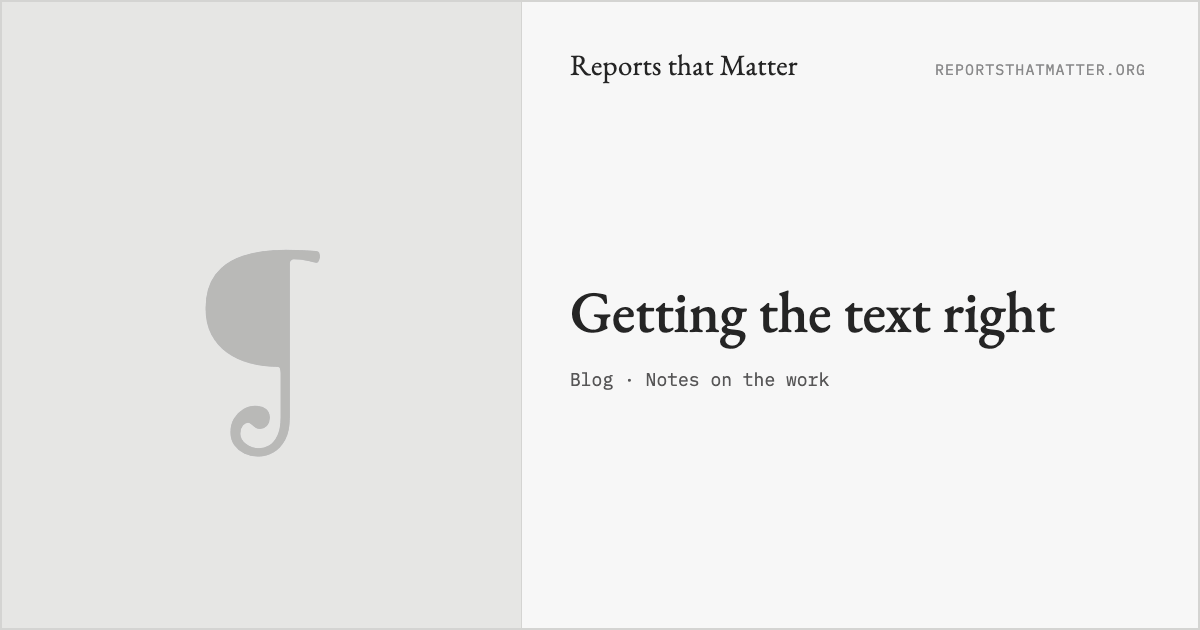
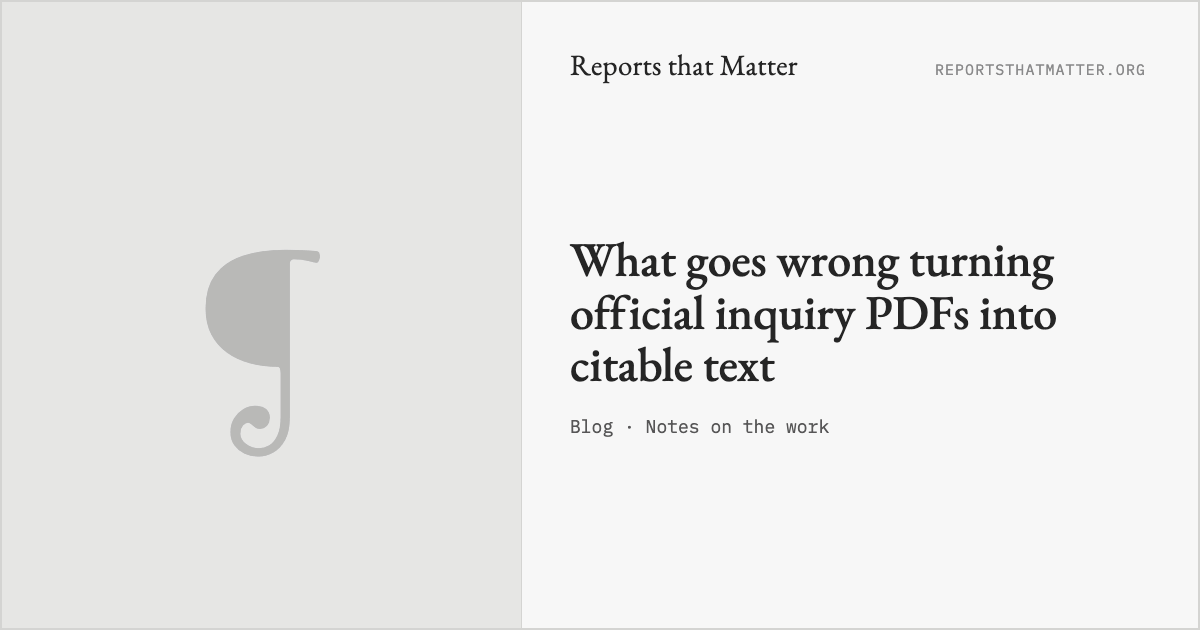
Blog draft: rewrite 'Getting the text right' for 10 Nov with 25 Oct numbers (grades, Mueller, Leveson) (cl2e)
Title under 80 characters for HN, author Rufus, status draft, dated 2026-11-10.
tests/blog.test.ts matched the old draft's review wording; it now checks the DECISION marker.

Claude-Session: https://claude.ai/code/session_016nGqu8qRXepYMzWYpLhjsz

Changed region(s): [[0.4625, 0.3619, 0.8942, 0.6333], [0.4625, 0.6635, 0.7092, 0.6937]]

diff --git a/tests/blog.test.ts b/tests/blog.test.ts
@@ -93,8 +93,9 @@ describe("blog routes with only drafts", () => {
     expect(body).toContain("draft-banner");
     expect(body).toContain('<meta name="robots" content="noindex" />');
     expect(body).toContain("AI coding agents");
-    // The flagged sentence stays in the post and is flagged in the preview's decision list.
-    expect(body).toContain("DECISION: the sentence beginning");
+    // The post's review list (its open decisions) is shown in the preview. Match the marker, not one
+    // decision's wording, so rewriting the draft's review notes does not break the test.
+    expect(body).toContain("DECISION:");
     expect(body).toContain("For the editor to decide");
   });
 

diff --git a/content/posts/getting-the-text-right.md b/content/posts/getting-the-text-right.md
@@ -1,70 +1,79 @@
 ---
-title: "Getting the text right: what goes wrong turning official PDFs into citable web text, and what we are doing about it"
-date: "2026-10-02"
-author: "Reports that Matter"
-summary: "The defects we kept hitting when turning official PDFs into citable web text, why fixing them one at a time stopped working, what we built instead, and what it has achieved so far."
+title: "What goes wrong turning official inquiry PDFs into citable text"
+date: "2026-11-10"
+author: "Rufus Pollock"
+summary: "An official PDF keeps the words and loses the paragraphs, headings and footnotes. How we grade every report on the errors a reader meets, and why ten of the 20 are below our own bar."
 status: draft
 review:
-  - "DECISION: the sentence beginning 'Much of this work was carried out by AI coding agents' (near the end, before the links) says the work was done by AI agents under human direction. The site has not said this anywhere before. Keep, reword or cut before publishing."
-  - "Written before v0.18.0 (page-break joins) was live. Check that the pipeline releases and the numbers under 'What changed for readers' match what is published, and update the date, before publishing."
-  - "Author byline is the project; change to a person if you prefer."
+  - "DECISION: the post publishes the per-report grades (A to D, errors per 10 pages), which decision 0030 keeps in the repo and off the site. Recommendation: publish them here. They are the access argument with numbers, and saying 'half are below our bar' ourselves is the honest version of what an HN commenter would find in reports/grades.md within the hour. If yes, consider a follow-up decision on showing them on each edition page."
+  - "DECISION for HN: this text was drafted by an agent (w7-content, 25 Oct). HN bans generated text in posts and comments, and its readers apply the same standard to linked essays. The launch plan (marketing strategy/2026-10-27-launch-week.md, L1) says you rewrite it yourself before the 10 Nov submission. Recommendation: rewrite it in your own words, using this as the fact sheet; the HN plan is in the marketing repo, drafts/2026-11-10/hn-essay.md."
+  - "Numbers are from 25 October 2026 (ingest v0.31.0, site 305d511b): reports/grades.md, the golden.yaml files in the report repos (128 pages, 41 xfail), site PRs #309 (Leveson) and #389 (Mueller), and factory/reviews/review-mueller-notes-2026-10-25.md. The September and early-October examples are from docs/design/2026-10-02-quality-harness-catalogue.md. Re-run `pnpm grade` and recount the golden pages the day before publishing; any release between now and 10 Nov moves them."
+  - "The AI paragraph is the brand-voice wording (decision 0009) in first person: 'under my direction', 'checked by me'."
+  - "The report count (20) is today's registry. If a report is added before 10 Nov, update it or remove the number (marketing's check-drafts.py --site-docs flags a mismatch)."
 ---
 
-The promise of this site is simple: every paragraph of a public inquiry, readable on the web and citable by its own link. Keeping that promise is mostly unglamorous data wrangling. This is a longer note than usual, about the problems we keep hitting, why fixing them one at a time stopped working, what we built instead, and what it has achieved so far.
+The Leveson Inquiry's report runs to 983,000 words. Its PDF gives the chapter titles as "ChapTer 1" and "parT a", because they are set in small capitals and the PDF records the small capitals as lower-case letters in a smaller font. The first time we converted it, the result had 74 headings. It has 88 now. By the measure I describe below, it is still the worst text on this site.
 
-## The problem: these reports were typeset for paper
+Ten of the 20 reports on this site fail the bar we set for them. This is how we know, and what is still wrong.
 
-Nearly every report here reaches us as an official PDF. A PDF records where each line of text sits on a printed page. It doesn't record which lines form a paragraph, which text is a heading, which number is a footnote marker, or which words are a running title repeated at the top of every page. Our pipeline has to work all of that out again, for documents of up to a million words, and every report was typeset differently.
+## A PDF records words, not paragraphs
 
-The mistakes are easy to make and hard to see. Some real examples from the archive:
+All 20 reports here were published as PDFs. For a born-digital PDF the words are usually fine. What a PDF does not record is which lines make a paragraph, which text is a heading, which small number is a footnote marker, and which words are a running head printed at the top of every page. All of that has to be worked out again, for each report, and every report was typeset differently.
 
-- **Sentences cut in half.** In the Litvinenko Inquiry, paragraph 3.120 described Mr Litvinenko "suffering from abdominal pain, profuse diarrhoea and" — and then the rest of the sentence, "vomiting for two days when he was taken to hospital", arrived as a separate indented quotation. That one report had 244 such breaks, about one prose block in nine.
-- **Page furniture inside sentences.** The same report's running heads ("The Litvinenko Inquiry", "Part 3 | Chapters 1 to 5") were read as text: 132 times as paragraphs of their own, and sometimes spliced into the middle of a sentence where a page break fell.
-- **One stray mark, 148 wrong notes.** The 9/11 Commission Report's first chapter opens with a decorative date that the PDF spells "Tue sday, Se ptembe r 11, 20 01". A fragment of it was read as footnote 20. Because notes restart in every chapter, every later "20" in the book then opened the previous chapter's note 20: 148 footnote markers showed the wrong note. "Haznawi in 6B." pointed to a note about a terrorism scholar instead of the airline record.
-- **Paragraphs you couldn't cite.** The Iraq Inquiry's Executive Summary numbers its paragraphs "13.", "20." at the margin. Our formatter read each one as a numbered list item, and list items had no paragraph link, so only 64 of its 956 citable units could actually be cited, including none of its conclusions. The Lehman examiner's report still has the same problem in places: the sentence giving Lehman's reported leverage figures breaks across a page and its second half becomes an unlinked list item.
-- **A million words with almost no structure.** The Leveson Inquiry is 983,000 words. It had 74 headings, because its Part and Chapter titles are set in small capitals that the PDF reports as "parT a" and "ChapTer 1". It now has 87; recovering the rest needs a piece of work of its own.
-- **Footnotes that never became footnotes.** When we first counted, more than 9,000 footnote markers across the archive had never been linked to their notes, 6,394 of them in Leveson.
+Some of what went wrong, from September and early October:
 
-## Why fixing them one by one wasn't working
+- **Sentences cut in half.** The Litvinenko Inquiry, paragraph 3.120, described Mr Litvinenko "suffering from abdominal pain, profuse diarrhoea and", and the rest of the sentence arrived as a separate quotation. That report had 244 sentences broken this way.
+- **One stray mark, 148 wrong notes.** The 9/11 Commission Report's first chapter opens with a decorative date that the PDF spells "Tue sday, Se ptembe r 11, 20 01". A fragment of it was read as footnote 20. Notes restart in every chapter, so every later "20" in the book opened the wrong note: 148 markers in all.
+- **Paragraphs you couldn't cite.** The Iraq Inquiry's executive summary numbers its paragraphs in the margin. We read each number as a list item, and list items had no link, so 64 of its 956 citable units could be cited, and none of its conclusions.
+- **Notes that never became notes.** When we first counted, 9,032 footnote markers across the archive were not linked to their notes. 6,394 of them were in Leveson.
 
-For months each defect became its own bug, found when someone happened to read the page, then fixed, then closed. When we catalogued about fifty of them, not one had been caught by an automated check. Readers had found six. The rest were found by someone reading pages closely. Our checks were measuring the wrong things: they confirmed that the words had arrived, not that they were in the right place, and their baselines simply recorded whatever had last been published, mistakes included.
+## Why fixing them one at a time stopped working
 
-So we changed the approach: measure the whole archive on every change, and find ground truth to measure against.
+Each of these was a bug, fixed and closed. When we listed about fifty of them in early October, none had been caught by an automated check. Six had been found by readers, or by me, on the live site; the rest by agents reading pages closely while doing something else.
 
-## What we built
+The checks we had were measuring the wrong thing. They confirmed that the words had arrived, not that they were in the right order or the right place. A paragraph cut in half, with its second half relabelled as a quotation, scored exactly the same as a correct one. That is how 865 of Litvinenko's 1,089 paragraphs went out severed until 1 September and passed every gate.
 
-**A catalogue of defects, with counts.** We wrote down every class of mistake we had seen, with examples and a way to detect each one automatically, and counted them across all thirteen reports.
+## What we measure now
 
-**Quality checks with budgets that only go down.** Every report now has a count for each defect class — sentences cut off into quotations, page furniture left as paragraphs, unlinked markers, contents entries with no matching heading, and so on — and a budget. A change that makes any count worse fails before it reaches the site. When a fix lowers a count, the budget is lowered with it, so the gains can't quietly slip back.
+- **Counts with budgets that only go down.** Each report has a count for each kind of defect we know how to detect: sentences cut into quotations, running heads left in the body, unlinked markers, contents entries with no matching heading. A change that raises any count fails before it reaches the site. A fix that lowers one lowers the budget with it.
+- **Independent editions to score against.** Some reports exist in a second, cleaner form: the 9/11 Commission's HTML edition, the Saville Inquiry's website, the court's text of the Philip Morris judgment. We align our text with those and score paragraph breaks, headings and note links. The scorer's first run on 9/11 found 195 paragraphs that started in the wrong place. Our checks had found 4.
+- **Checking the references.** The clean editions have mistakes too. On 185 page breaks checked against the PDF, the reference was wrong in 19, about one in ten. So each reference now gets a sample checked by hand before we trust it.
+- **Golden pages.** 128 pages across the 20 reports have been read off the page image and written down as the right answer for the paragraphs, headings and notes they were chosen to test. A change that breaks one fails the build. They were chosen because they are hard, and on 41 we still get something wrong. Those are recorded as known failures, each tied to an open bug, so they stay visible.
 
-**Clean reference texts to score against.** The checks can only look for shapes we already know. To find the rest, we went looking for independent clean editions of the same reports. Some exist: the 9/11 Commission's own HTML edition, the Saville Inquiry's website, the court reporter's text of the Philip Morris judgment, and the structure tags inside some publishers' PDFs (Hillsborough's match our text 97%). We built a scorer that aligns our text with the reference and measures where paragraphs begin and end, which text is a heading, and whether each footnote marker opens the right note. Its first run on 9/11 found 195 wrong paragraph breaks; our existing checks had found 4. It also showed that our checks caught only about half of the wrongly split paragraphs.
+## One grade per report
 
-**Checking the checkers.** Reference texts have mistakes too. On a sample of page breaks, about one label in ten turned out to be wrong, mostly where a publisher's PDF tags were sloppy. So for each reference we now check 30 page breaks by hand against the printed page and record the result. After cleaning up the references, Hillsborough's error rate on those breaks went from 7% to zero and Chilcot's from 18% to 4.5%.
+Counts are hard to compare between a 145-page executive summary and a 1,952-page inquiry, so since 16 October each report has one number: the errors a reader meets per 10 pages, over six things a reader relies on. Paragraphs that start and end in the right place. Headings. Footnote markers that open the right note. Page numbers that land on the right page. Links that still find their paragraph. And the words themselves, which we can only measure where a clean edition exists.
 
-**Learning from the cases we get wrong.** Aligning our text with the clean editions gave us tens of thousands of labelled decisions, every point where the pipeline chose whether to start a new paragraph. The weakest decision by far was the page break: does the paragraph at the foot of a page continue on the next one? Within a page we were right 97–99.6% of the time; across a page break, as little as 74%. We tried a trained model, but it mostly rediscovered rules a person could write down, and did slightly worse than them: if the last line on the page is unfinished and the next page's first line isn't indented, the paragraph runs on, whatever letter it starts with; never join into a line that opens with a paragraph number; a change of typeface means a new block. A language model asked to settle only the genuinely ambiguous breaks did better still on those cases, at a fraction of a cent each, and may be added later as a cached, optional step.
+A is at most 1 error per 10 pages, B at most 3, C at most 10, D at most 30. Our own bar is B, with no dimension below C.
 
-**Reading the page's layout.** Those rules need to know where each line sits and which typeface it uses, so the pipeline now reads each PDF's line positions and fonts directly, as well as its text. The same data drives a "layout oracle" that compares our headings, footnote markers and paragraph breaks with what the printed page shows.
+On 25 October, three reports were A: the Post Office Horizon Inquiry (Volume 1), the 9/11 Commission and Chilcot's executive summary. Seven were B. Six were C, and four were D: Challenger, the Senate's CIA report, Litvinenko and Leveson, which comes in at 18 errors per 10 pages, 11 from paragraphs alone. Ten of the twenty meet the bar.
 
-**Golden pages.** Finally, 77 hard pages across the thirteen reports — chosen because they have caught us out — have been checked against the printed page and written down as the correct answer. If a change breaks one, the build fails. Pages we still get wrong are recorded as known failures, tied to their bug, so the problem stays visible until it is fixed.
+The other ten are on the site anyway. A copy you can search and link into, with its defects counted, is more use than a PDF you can't. The counts are in the repository; each report's edition page describes how its text was made and where it falls short. Where our text and the official PDF differ, the PDF is right.
 
-## What changed for readers
+Two caveats. The grade counts only the errors a check can see, so it is a floor, not an estimate of everything. And the words themselves are scored for only two of the 20 reports, the 9/11 Commission and Chilcot's executive summary, where proofread pages exist to score against. For the other 18, word accuracy is sampled, not measured.
 
-Over four releases of the conversion pipeline (v0.15.0 to v0.18.0), every report on the site has changed:
+## When the checker was wrong
 
-- Paragraphs that ran over a page break are whole again. On the three reports we developed against, the share of page breaks handled correctly rose from 87% to 96%; on four held-out reports, from 87% to 89%. In the Philip Morris judgment, none of the 30 page breaks we checked by hand is now wrong; ten were before. Across the archive, 366 paragraphs severed at a page break and 316 quotations or list items cut in two are rejoined.
-- Litvinenko's running heads are gone (227 left as paragraphs, now 12), and its lettered sub-items no longer break into quotations.
-- The Iraq Inquiry has all its listed headings (68 became 90) and its reading guide now covers the Lessons.
-- In the 9/11 Commission Report, footnote markers that open their correct note rose from 90.5% to 97.8%, and the same fix corrected wrongly paired notes in Leveson, Deepwater Horizon, Litvinenko, Columbia and Lehman.
-- The Lehman examiner's report gained Volume 3, the Repo 105 analysis, with 941 of its 1,094 footnotes linked.
+The Mueller report graded D in October: 12.3 errors per 10 pages, nearly all from 468 footnote markers that our layout checker said were not linked. Before changing the pipeline, an agent sampled the findings on the page images. About 300 were the checker's own mistakes. On the scanned pages, OCR had read one raised marker digit by digit, so "1262" counted as four markers, and dates inside the notes ("3/11/16") were read as markers too. The same look found 112 real markers that the pipeline had missed for the same two reasons. Both are now fixed, every report's text but Mueller's came out byte-identical, and Mueller is a C, at 5.1.
 
-One cost: when two halves of a paragraph are joined, one of their links disappears. We updated every link we publish ourselves, but a link to a paragraph that was really half a paragraph may now land at the top of its section. We are adding a redirect table so old links keep working.
+161 of its 1,283 notes, on the scanned and redacted pages of Volume I, are still not linked. That is the next piece of work on it.
 
-## What's next, and what we haven't solved
+## When the checker was blind
 
-- **Six reports have no clean edition to score against:** Leveson, Deepwater Horizon, Challenger, Lehman, the Senate's financial crisis report and the Jack Smith report. They carry most of the remaining defects; Leveson alone had over 8,000 flagged by our checks at the start of this work. They depend on the pipeline getting better, and the rules learned from the reports that do have clean editions are designed to carry over.
-- **Using the clean text directly.** Where a clean edition exists, we are piloting taking the text and structure from it, and using the official PDF only to place the printed page numbers and to check fidelity. 9/11 is first; Saville, Hillsborough and the Duelfer Report (which has stalled on its difficult PDF) are next.
-- **Better sources in general.** We are researching where better source texts can come from: publishers' original files, government XML, court records, accessible editions, and modern text extraction for the scanned reports. That will get its own write-up.
+Leveson numbers its paragraphs within each chapter: 4.30 in one chapter, 4.30 again in the next. Our check for a paragraph number glued onto the end of the previous paragraph looked for the number anywhere in the report. Any other chapter's 4.30 hid the glued one, so it found 3 of 14. It now compares with the next paragraph's own number, found all 14, and the fix took them to 0. In the same change, bare footnote markers in Leveson went from 39 to 6.
 
-Much of this work was carried out by AI coding agents working under human direction, with every change measured and reviewed before it was published.
+Leveson is still a D. Its Part and Chapter headings need a structure the pipeline does not yet build, and on 2 October we counted 146 numbered paragraphs, on 56 pages printed closer to the binding, that came out with their first line as prose and the rest as a quotation. Both are open, with their counts.
 
-The details are in the design notes in the [site's repository](https://github.com/reportsthatmatter/reportsthatmatter): the [defect catalogue](https://github.com/reportsthatmatter/reportsthatmatter/blob/main/docs/design/2026-10-02-quality-harness-catalogue.md), the [plan](https://github.com/reportsthatmatter/reportsthatmatter/blob/main/docs/design/2026-10-02-quality-harness-plan.md), the [reference editions](https://github.com/reportsthatmatter/reportsthatmatter/blob/main/docs/design/reference-editions.md), the [scorer](https://github.com/reportsthatmatter/reportsthatmatter/blob/main/docs/design/2026-10-02-alignment-scorer.md) and [what we learned from the aligned texts](https://github.com/reportsthatmatter/reportsthatmatter/blob/main/docs/design/2026-10-02-learning-from-aligned-pairs.md). If you find a mistake in a report, please [tell us](https://github.com/reportsthatmatter/reportsthatmatter/issues/new/choose): every one we hear about becomes a check, so it can't happen again.
+## Fixes move links, so links redirect
+
+Every paragraph's id comes from its opening words, not its position, so most fixes move nothing. When a fix does move one, typically because two halves of a paragraph split at a page break are joined, the old id is recorded and redirects to the new one. The Mueller fix moved two: one now redirects, and one, a paragraph that was only the words "Mr. President!", no longer exists on its own, so a link to it opens the report without finding a paragraph.
+
+## What I haven't solved
+
+- **Leveson, Litvinenko, Challenger and the Senate's CIA report** are the four D grades. Challenger is a 1986 scan; the CIA report is heavily redacted; Leveson is 1,952 pages; it and Litvinenko are carefully typeset books whose margins and gutters the pipeline misreads.
+- **The words, for most reports.** The grade is built on structure. Measuring the words where there is no clean edition needs either a person reading sampled pages or a vision model checking them, and both are still experiments.
+- **Recall.** A check that finds 3 of 14 looks fine until you find the other 11. The golden pages are how we find out, and 128 pages out of 10,170 is not enough.
+
+No language model wrote, summarised or rewrote the report text. AI coding agents built much of the software and the site, under my direction, and the code is public. The introductions are ours: drafted with AI help, checked by me, and labelled.
+
+The grades are in [reports/grades.md](https://github.com/reportsthatmatter/reportsthatmatter/blob/main/reports/grades.md) and the method in [docs/scoring.md](https://github.com/reportsthatmatter/reportsthatmatter/blob/main/docs/scoring.md); the defect catalogue is [here](https://github.com/reportsthatmatter/reportsthatmatter/blob/main/docs/design/2026-10-02-quality-harness-catalogue.md). If you find a mistake in a report, [tell us](https://github.com/reportsthatmatter/reportsthatmatter/issues/new/choose). Each one we hear about gets a check that fails on it.
